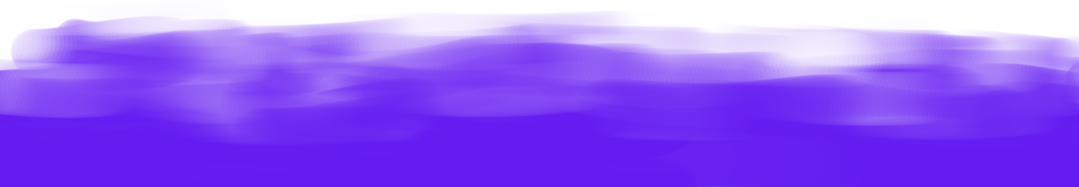
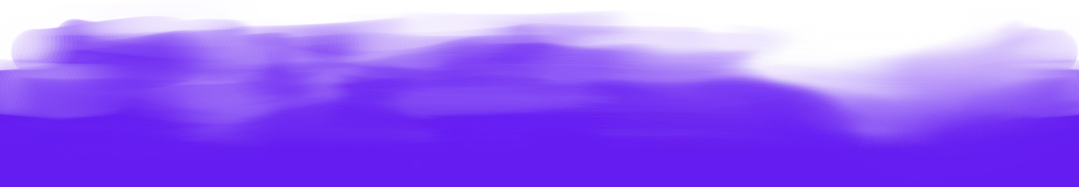
Two versions of top section background + arranged footer + arranged first title for mobile and began tablet

diff --git a/src/index.html b/src/index.html
@@ -18,12 +18,12 @@
 
   <button class="btn btn--theme" id="theme"><span class="btn__txt">Theme</span><span id="ball" class="btn--ball"></span></button>
 
-  <section class="topSection">
+  <section class="section content--top">
     <h1 class="logo"><span class="logo--txt">CommiMe</span></h1>
     <div>
-      <h2 class="title title--left topSection__el">The first <span class="title--break">artist-friendly</span> commission app without fee.</h2>
-      <p class="topSection__el">You don't believe us ? Try it now.</p>
-      <div class="topSection__el">
+      <h2 class="title title--left title--top content__el">The first <span class="title--break">artist-friendly</span> commission app without fee.</h2>
+      <p class="content__el">You don't believe us&nbsp;? Try it now.</p>
+      <div class="section__el">
 
         <a  class="dlbtn"
             target="_blank"
@@ -39,13 +39,13 @@
   <section class="section">
     <div class="content">
       <h3 class="content__el title"><span class="title--underline title--new">New artists</span> are put forward.</h3>
-      <p class="content__el">Are you tired of your lack of visibility ? Do you want to find and support artists beginning in the commission field ? Then CommiMe is made for you. You will find a category made for new artists on the home screen, so that everybody can have a chance to shine.</p>
+      <p class="content__el">Are you tired of your lack of visibility&nbsp;? Do you want to find and support artists beginning in the commission field&nbsp;? Then CommiMe is made for you. You will find a category made for new artists on the home screen, so that everybody can have a chance to shine.</p>
     </div>
     <div class="gallery content__sec"></div>
   </section>
 
   <section class="content section">
-    <div class="content__slide">
+    <div class="section">
       <h3 class="content__el title title__slide title__slide--custom">Customizable form</h3>
       <p class="content__el content__el--center">Make a form that your clients can fill out to gain time and avoid the stress of the first conversation.</p>
       <picture class="content__img">
@@ -54,16 +54,16 @@
       </picture>
     </div>
 
-    <div class="content__slide">
+    <div class="section">
       <h3 class="content__el title title__slide title__slide--chat">Private chatbox</h3>
-      <p class="content__el content__el--center">You miss the old-fashioned conversations on social media ? No worries, you can continue them here !</p>
+      <p class="content__el content__el--center">You miss the old-fashioned conversations on social media&nbsp;? No worries, you can continue them here.</p>
       <picture class="content__img">
         <source srcset="assets/images/section__chat@1x.png 1x, assets/images/section__chat@2x.png 2x">
         <img src="assets/images/section__chat@1x.png" alt="Showcase of the private chat in the app.">
       </picture>
     </div>
 
-    <div class="content__slide">
+    <div class="section">
       <h3 class="content__el title  title__slide title__slide--review">Review system</h3>
       <p class="content__el content__el--center">Leave a note out of 5 stars so that other users know they can trust you.</p>
       <picture class="content__img">
@@ -88,11 +88,11 @@
   </section>
 
   <section class="section content content__sec content--spacetop">
-    <h3 class="title content__el">They’re already convinced.</h3>
+    <h3 class="title content__el">They’re already <span class="title--underline">convinced</span>.</h3>
 
     <div class="content__el review">
       <h4 class="title title--small content__el review__img review__img--tasu">TasukiCrimson</h4>
-      <p>I tried many commissions platforms but none of them ever convinced me. The fee was too high, and I was drowned in the middle of popular artists, so I switched to Twitter to sell my drawing, until I discovered CommiMe. Thanks to this app, I can now easily find new clients and the process is way easier than before !</p>
+      <p>I tried many commissions platforms but none of them ever convinced me. The fee was too high, and I was drowned in the middle of popular artists, so I switched to Twitter to sell my drawing, until I discovered CommiMe. Thanks to this app, I can now easily find new clients and the process is way easier than before&nbsp;!</p>
     </div>
     
     <div class="content__el review">
@@ -120,9 +120,9 @@
   <footer class="footer">
     <p class="footer__el">@<span id="year">2022</span> <a href="http://nell-maissin.be" target="_blank">Nell Maissin</a> — <a href="http://dwm.re/" target="_blank">DWT</a></p>
     <ul class="linkList">
-      <li><a href="ui-kit.html">UI-Kit</a></li>
-      <li><a href="case-study.html">Case Study</a></li>
-      <li><a href="credits.html">Credits</a></li>
+      <li class="linkList__el"><a href="ui-kit.html">UI-Kit</a></li>
+      <li class="linkList__el"><a href="case-study.html">Case Study</a></li>
+      <li class="linkList__el"><a href="credits.html">Credits</a></li>
     </ul>
   </footer>
 

diff --git a/src/styles/app.scss b/src/styles/app.scss
@@ -42,26 +42,6 @@ a{
     }
 }
 
-.topSection{
-    height: 100vh;
-    background-size: cover;
-    background-position: 70% center;
-    background-image: url(../assets/images/cover@1x.jpg);
-    padding: 36px 36px 72px ;
-
-    @media (device-pixel-ratio: 2) {
-        background-image: url(../assets/images/cover@2x.jpg);
-    }
-
-    display: flex;
-    flex-direction: column;
-    justify-content: space-between;
-
-    &__el{
-        margin-bottom: 18px;
-    }
-}
-
 .dlbtn{
     background-repeat: no-repeat;
     background-size: contain;
@@ -98,10 +78,6 @@ a{
         margin-bottom: 36px;
     }
 
-    &__slide{
-        margin-bottom: 72px;
-    }
-
     &__img{
         display: block;
         margin: auto;
@@ -121,12 +97,34 @@ a{
     }
 
     &--purple{
-        padding: 18px 36px;
+        padding: 36px 36px;
         margin-bottom: 0;
     }
 
     &--spacetop{
         margin-top: 36px;
+    }
+
+    &--top{
+        
+        height: 100vh;
+        background-size: cover;
+        background-position: 70% top;
+        background-image: url(../assets/images/cover_mobile@1x.jpg);
+        padding: 36px 36px 72px;
+
+        @media (device-pixel-ratio: 2) {
+            background-image: url(../assets/images/cover_mobile@2x.jpg);
+        }
+
+        @media (min-width: 768px){
+            color: red;
+        }
+
+        display: flex;
+        flex-direction: column;
+        justify-content: space-between;
+
     }
 }
 
@@ -171,9 +169,9 @@ a{
 }
 
 .review{
-background-color: var(--c-primary);
-padding: 36px;
-border-radius: 15px;
+    background-color: var(--c-primary);
+    padding: 36px;
+    border-radius: 15px;
 
     &__img{
         padding-top: 90px;
@@ -198,6 +196,7 @@ border-radius: 15px;
 .footer{
     display: flex;
     flex-direction: column;
+    align-items: center;
     padding: 18px;
     text-align: center;
 
@@ -212,5 +211,8 @@ border-radius: 15px;
 
 .linkList{
     display: flex;
-    justify-content: space-between;
+
+    &__el{
+        margin: 0 18px;
+    }
 }

diff --git a/src/styles/components/_type.scss b/src/styles/components/_type.scss
@@ -22,6 +22,7 @@
 
     &--underline{
         background: linear-gradient(180deg,rgba(255, 255, 255, 0) 50%, var(--c-primary) 50%);
+        border-radius: 15px;
     }
 
     &--new{
@@ -65,6 +66,10 @@
             background-image: url(../../assets/images/title_review.svg);
         }
 
+    }
+
+    &--top{
+        max-width: 370px;
     }
     
 }
